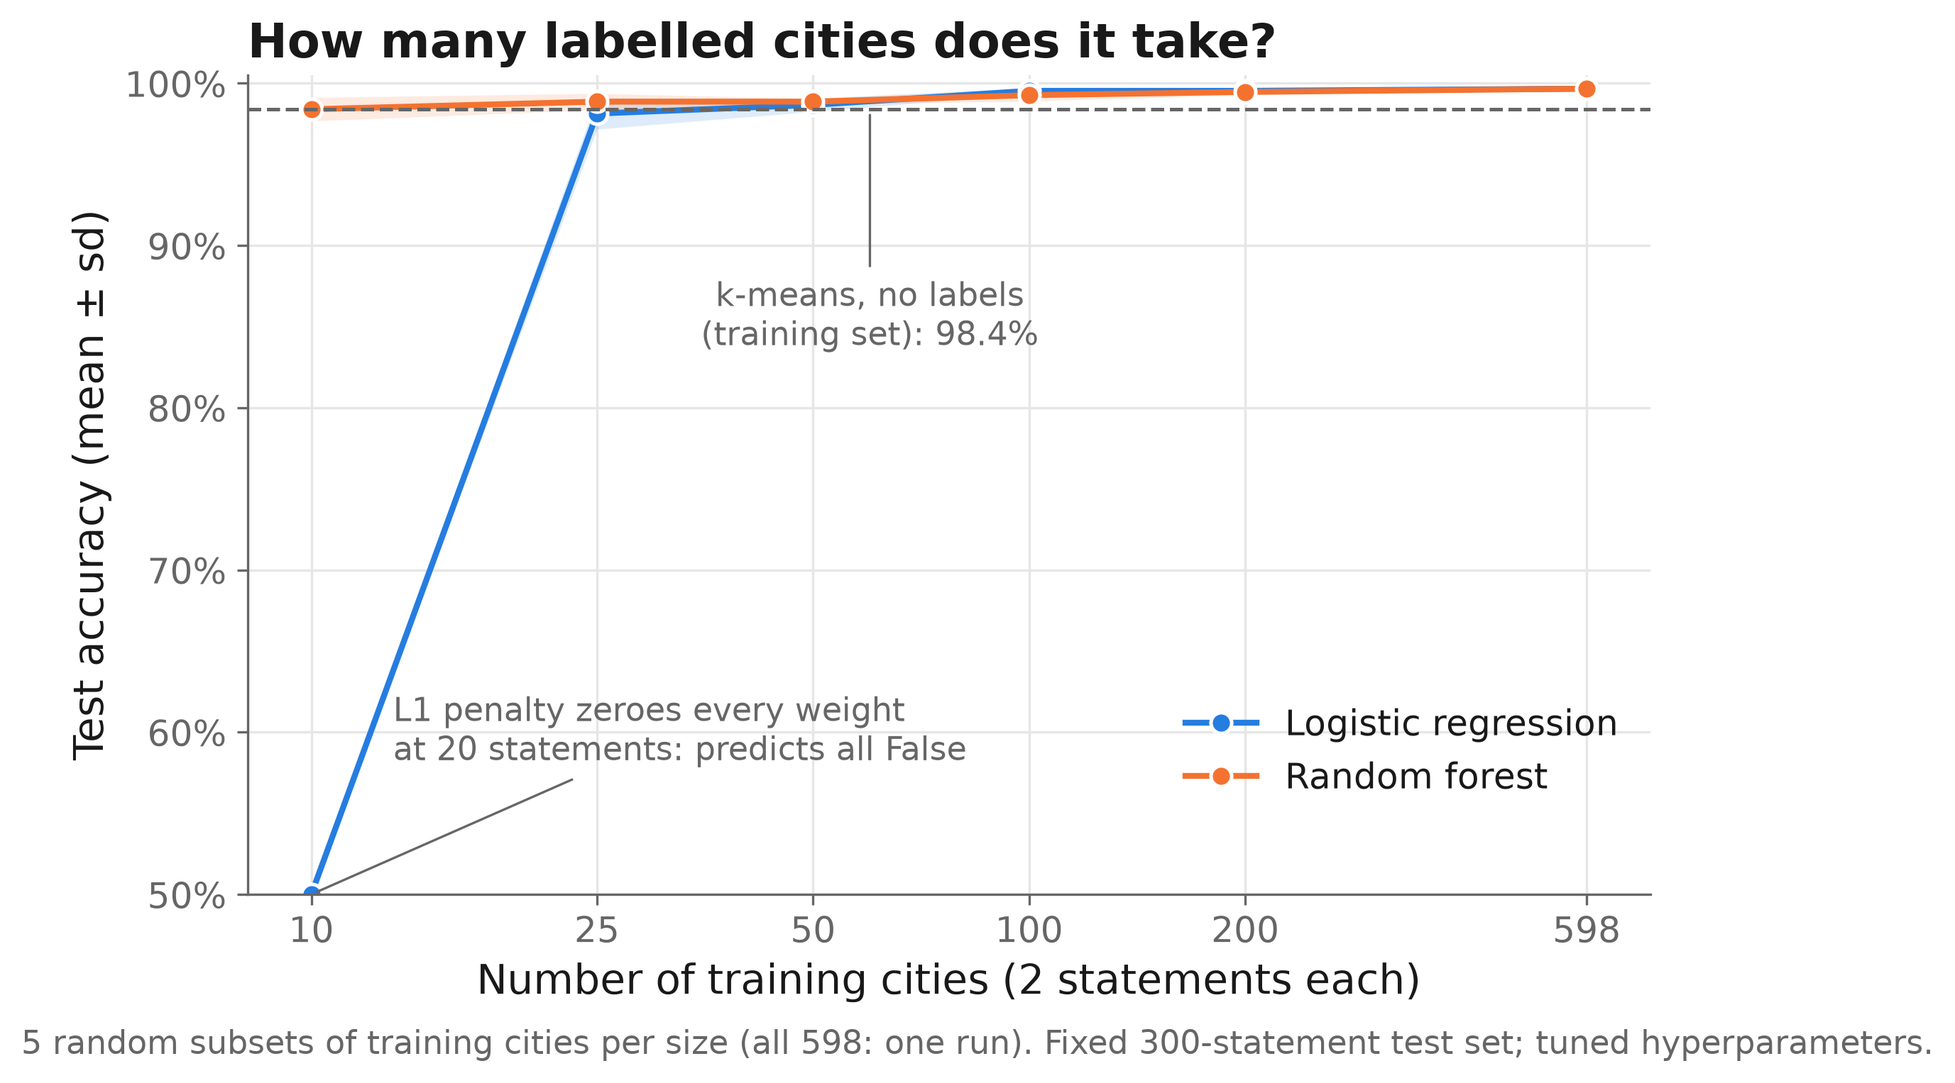
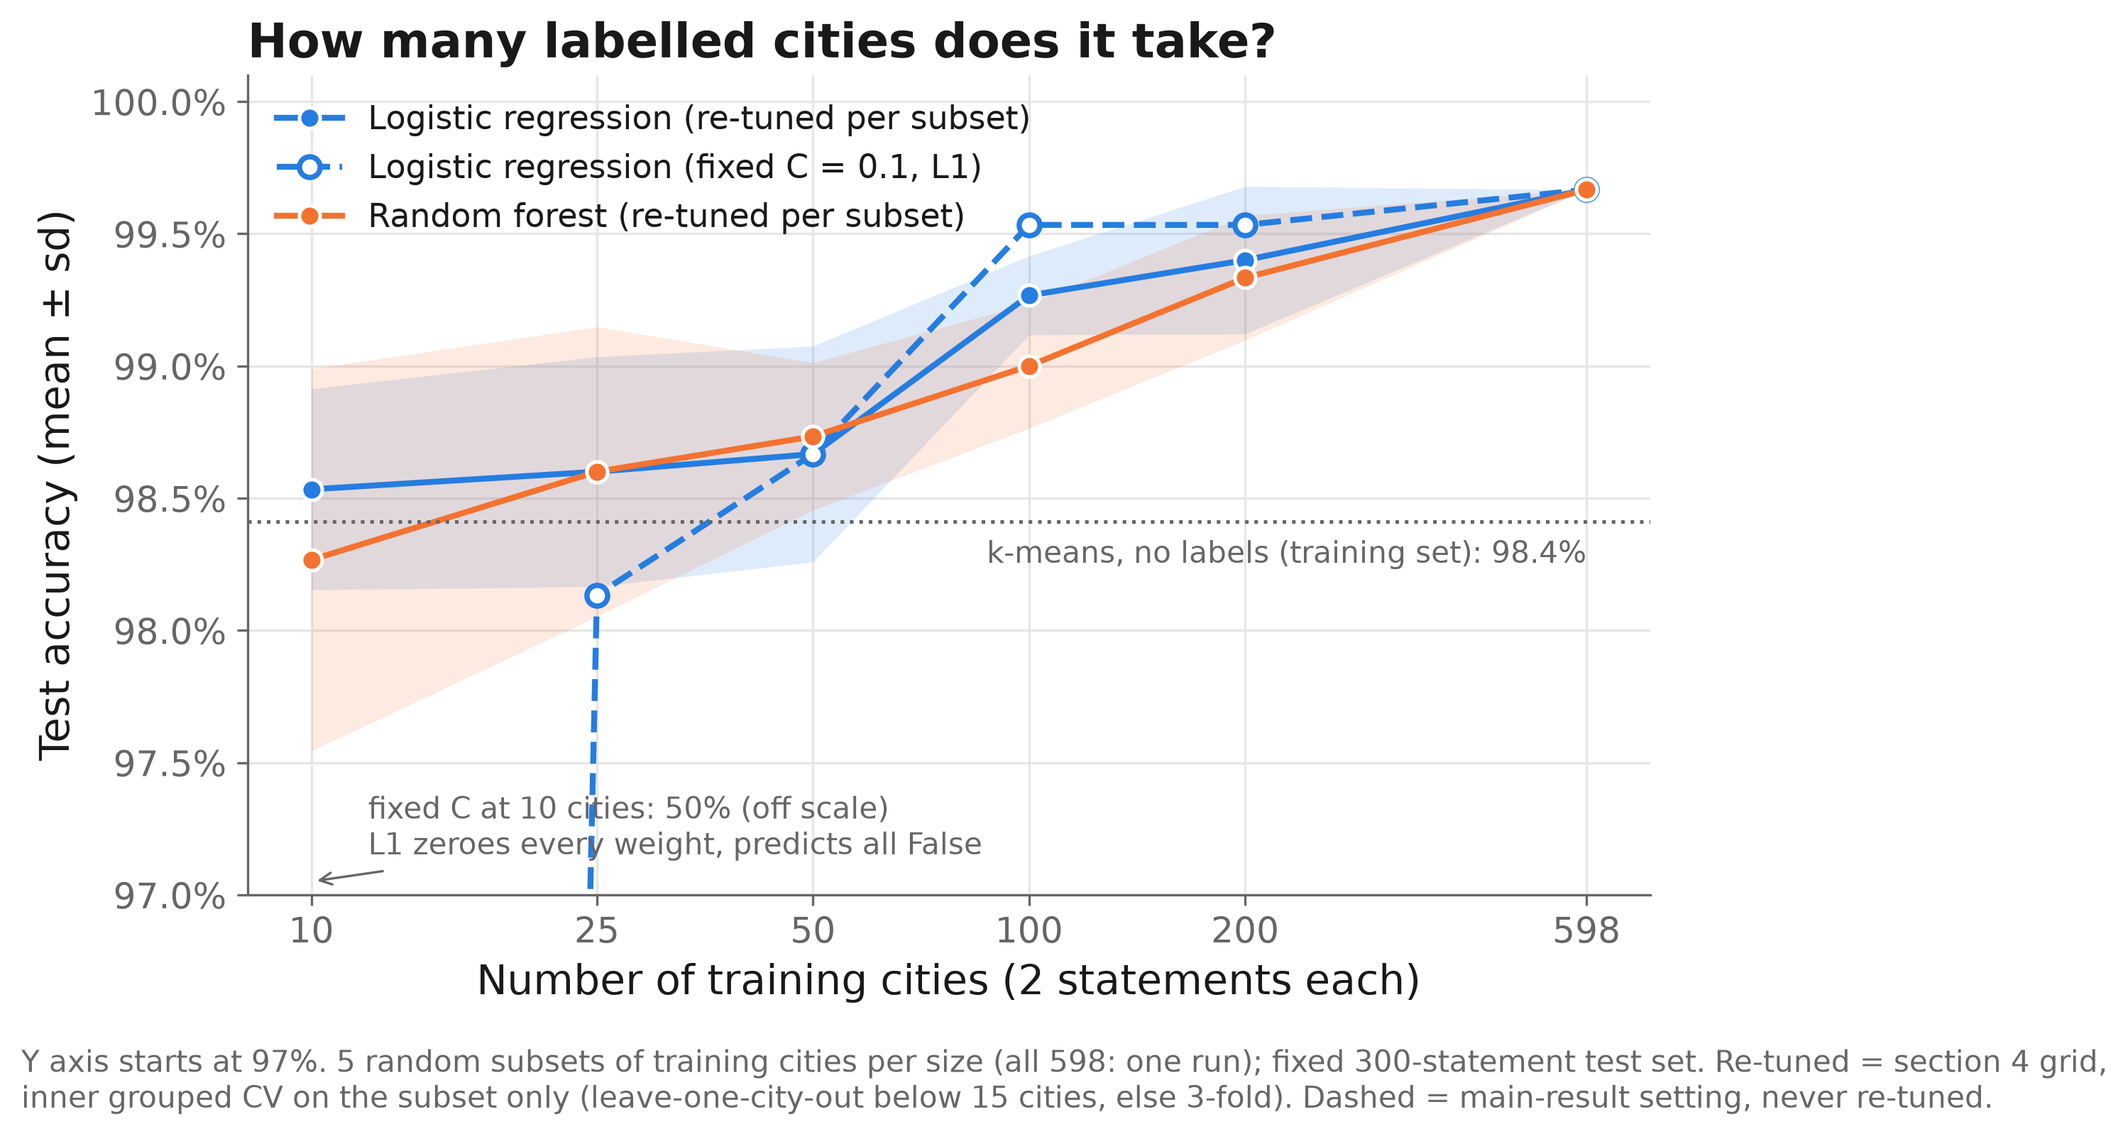
Learning curve: re-tune LR and RF on each training subset
- Inner grouped CV per subset (leave-one-city-out <15 cities, else 3-fold), section 4 grids
- Figure now shows LR re-tuned, LR fixed C=0.1 (dashed), RF re-tuned
- Re-tuned rows appended to results_table.csv; summary.md and CLAUDE.md 8a updated

Claude-Session: https://claude.ai/code/session_01PG348GGmGPyY9PXPgZmFNv

Changed region(s): [[0.0, 0.0, 0.9993, 0.9849], [0.4684, 0.4309, 0.7495, 0.4925], [0.5933, 0.7079, 0.8119, 0.7387]]

diff --git a/src/learning_curve_retuned.py b/src/learning_curve_retuned.py
@@ -1,0 +1,147 @@
+"""Learning curve with hyperparameters re-tuned on each training subset (fair version).
+
+For each training size and repeat (same subsets as extra_analyses.py, same seeds), LR and RF are
+re-tuned over their section 4 grids by grouped inner CV on that subset only:
+3-fold GroupKFold, or leave-one-city-out when the subset has fewer than 15 cities. The chosen
+model is refit on the whole subset and scored on the fixed test set. No API calls.
+Run: .venv/bin/python -W ignore src/learning_curve_retuned.py [--lr-only]
+"""
+import json
+import sys
+import time
+
+import matplotlib.pyplot as plt
+import numpy as np
+import pandas as pd
+from sklearn.metrics import accuracy_score
+from sklearn.model_selection import GridSearchCV, GroupKFold, LeaveOneGroupOut
+
+from common import LR_C, RES, RF_C, SEED, TEXT2, load, savefig, set_style, split_mask
+from tune import LR_GRID, RF_GRID, make_lr, make_rf, pca_label
+
+set_style()
+SIZES = [10, 25, 50, 100, 200]
+REPEATS = 5
+
+
+def inner_cv(groups):
+    n = len(np.unique(groups))
+    if n < 15:
+        return list(LeaveOneGroupOut().split(np.zeros(len(groups)), groups=groups)), "leave-one-city-out"
+    return list(GroupKFold(n_splits=3, shuffle=True, random_state=SEED).split(
+        np.zeros(len(groups)), groups=groups)), "3-fold grouped"
+
+
+def main(lr_only=False, plot_only=False):
+    if plot_only:
+        agg = pd.read_csv(RES / "learning_curve_retuned.csv")
+        n_all = int(agg.n_cities.max())
+        return plot(agg, n_all, lr_only)
+    X, meta = load("cities")
+    tr, te = split_mask(meta)
+    y = meta["label"].to_numpy()
+    Xtr, ytr, ctr = X[tr], y[tr], meta["city"].to_numpy()[tr]
+    Xte, yte = X[te], y[te]
+    train_cities = np.unique(ctr)
+    n_all = len(train_cities)
+    assert not set(train_cities) & set(meta.city[te])
+
+    models = [("LR", make_lr, LR_GRID)] + ([] if lr_only else [("RF", make_rf, RF_GRID)])
+    runs = []
+    for size in SIZES + [n_all]:
+        for r in range(REPEATS):
+            rng = np.random.default_rng(1000 * size + r)  # identical subsets to extra_analyses.py
+            sub = rng.choice(train_cities, size, replace=False) if size < n_all else train_cities
+            idx = np.isin(ctr, sub)
+            folds, scheme = inner_cv(ctr[idx])
+            for c in folds:  # no city on both sides of an inner fold
+                assert not set(ctr[idx][c[0]]) & set(ctr[idx][c[1]])
+            for name, make, grid in models:
+                t0 = time.time()
+                gs = GridSearchCV(make(), grid, scoring="accuracy", cv=folds, n_jobs=-1, refit=True)
+                gs.fit(Xtr[idx], ytr[idx])
+                acc = accuracy_score(yte, gs.predict(Xte))
+                bp = {k: (pca_label(v) if k == "pca" else v) for k, v in gs.best_params_.items()}
+                row = {"model": name, "n_cities": size, "repeat": r, "inner_cv": scheme,
+                       "n_inner_folds": len(folds), "inner_cv_acc": gs.best_score_,
+                       "test_accuracy": acc, "best_params": json.dumps(bp, default=float),
+                       "runtime_sec": round(time.time() - t0, 1)}
+                if name == "LR":
+                    row["nonzero_weights"] = int((gs.best_estimator_["clf"].coef_ != 0).sum())
+                runs.append(row)
+                print(f"{name} {size:>3} cities rep {r}: test {acc:.4f}  {bp}  ({row['runtime_sec']}s)", flush=True)
+            if size == n_all:
+                break  # all cities: one run (subset is the whole training split)
+    runs = pd.DataFrame(runs)
+    runs.to_csv(RES / "learning_curve_retuned_runs.csv", index=False)
+    agg = runs.groupby(["model", "n_cities"])["test_accuracy"].agg(["mean", "std", "count"]).reset_index()
+    agg["std"] = agg["std"].fillna(0.0)
+    agg.to_csv(RES / "learning_curve_retuned.csv", index=False)
+
+    rows = []
+    for _, a in agg.iterrows():
+        rows.append({"section": "Learning curve (re-tuned)", "dataset": "cities test", "method": f"{a.model} (re-tuned)",
+                     "metric": f"test_accuracy_{a.n_cities}_cities", "value": round(a["mean"], 4),
+                     "ci_low": np.nan, "ci_high": np.nan,
+                     "notes": f"mean over {a['count']} subsets; sd = {a['std']:.4f}; grid re-tuned by inner grouped CV "
+                              f"({'leave-one-city-out' if a.n_cities < 15 else '3-fold'}) on each subset"})
+    lr = runs[runs.model == "LR"]
+    for size in (10, 25):
+        d = lr[lr.n_cities == size]
+        rows.append({"section": "Learning curve (re-tuned)", "dataset": "cities train subsets", "method": "LR (re-tuned)",
+                     "metric": f"nonzero_weights_{size}_cities", "value": round(d.nonzero_weights.mean(), 1),
+                     "ci_low": np.nan, "ci_high": np.nan,
+                     "notes": f"mean over 5 subsets; per subset: {d.nonzero_weights.tolist()}; "
+                              f"chosen: {d.best_params.tolist()}"})
+    for name in agg.model.unique():
+        rows.append({"section": "Learning curve (re-tuned)", "dataset": "cities", "method": f"{name} (re-tuned)",
+                     "metric": "total_runtime_sec", "value": round(runs[runs.model == name].runtime_sec.sum(), 1),
+                     "ci_low": np.nan, "ci_high": np.nan, "notes": ""})
+    pd.DataFrame(rows).to_csv(RES / "lc_retuned_results.csv", index=False)
+    plot(agg, n_all, lr_only)
+    print(agg.to_string())
+
+
+def plot(agg, n_all, lr_only):
+
+    # Figure: LR re-tuned, LR fixed C = 0.1 (dashed), RF (re-tuned if run, else fixed)
+    fixed = pd.read_csv(RES / "learning_curve.csv")
+    km = json.loads((RES / "tuning.json").read_text())["kmeans"]["PCA2"]["cluster_accuracy"]
+    fig, ax = plt.subplots(figsize=(8.5, 5))
+    rf_src = agg if not lr_only else fixed
+    lines = [(agg[agg.model == "LR"], LR_C, "-", "Logistic regression (re-tuned per subset)"),
+             (fixed[fixed.model == "LR"], LR_C, "--", "Logistic regression (fixed C = 0.1, L1)"),
+             (rf_src[rf_src.model == "RF"], RF_C, "-",
+              "Random forest (re-tuned per subset)" if not lr_only else "Random forest (fixed settings)")]
+    for d, c, ls, lab in lines:
+        if ls == "-":
+            ax.fill_between(d.n_cities, d["mean"] - d["std"], np.minimum(d["mean"] + d["std"], 1.0),
+                            color=c, alpha=0.15, lw=0)
+        ax.plot(d.n_cities, d["mean"], ls, marker="o", color=c, lw=2, ms=7, label=lab,
+                mec="white" if ls == "-" else c, mew=1.2 if ls == "-" else 1.8, mfc=c if ls == "-" else "white")
+    ax.axhline(km, color=TEXT2, lw=1.2, ls=":")
+    ax.text(n_all, km - 0.0007, f"k-means, no labels (training set): {km:.1%}",
+            color=TEXT2, fontsize=10, ha="right", va="top")
+    f10 = fixed[(fixed.model == "LR") & (fixed.n_cities == 10)]["mean"].iloc[0]
+    if f10 < 0.97:
+        ax.annotate(f"fixed C at 10 cities: {f10:.0%} (off scale)\nL1 zeroes every weight, predicts all False",
+                    (10, 0.9705), xytext=(12, 0.9725), color=TEXT2, fontsize=10, ha="left", va="center",
+                    arrowprops=dict(arrowstyle="->", color=TEXT2, lw=0.8))
+    ax.set_xscale("log")
+    ax.set_xticks(SIZES + [n_all], [str(s) for s in SIZES + [n_all]])
+    ax.minorticks_off()
+    ax.set_ylim(0.97, 1.001)
+    ax.set_xlabel("Number of training cities (2 statements each)")
+    ax.set_ylabel("Test accuracy (mean ± sd)")
+    ax.yaxis.set_major_formatter(plt.FuncFormatter(lambda v, _: f"{v:.0%}"))
+    ax.set_title("How many labelled cities does it take?")
+    ax.yaxis.set_major_formatter(plt.FuncFormatter(lambda v, _: f"{v:.1%}"))
+    ax.legend(frameon=False, loc="upper left", fontsize=11)
+    fig.text(0.0, -0.09, "Y axis starts at 97%. 5 random subsets of training cities per size (all 598: one run); fixed 300-statement test set. "
+             "Re-tuned = section 4 grid,\ninner grouped CV on the subset only (leave-one-city-out below 15 cities, "
+             "else 3-fold). Dashed = main-result setting, never re-tuned.", color=TEXT2, fontsize=10)
+    savefig(fig, "results_learning_curve.png")
+
+
+if __name__ == "__main__":
+    main(lr_only="--lr-only" in sys.argv, plot_only="--plot-only" in sys.argv)

diff --git a/src/extra_analyses.py b/src/extra_analyses.py
@@ -64,32 +64,8 @@ def main():
     km = tuning["kmeans"]
     km_acc = km["PCA2"]["cluster_accuracy"]
 
-    fig, ax = plt.subplots(figsize=(8.5, 5))
-    for name, c, lab in [("LR", LR_C, "Logistic regression"), ("RF", RF_C, "Random forest")]:
-        d = agg[agg.model == name]
-        ax.fill_between(d.n_cities, d["mean"] - d["std"], np.minimum(d["mean"] + d["std"], 1.0),
-                        color=c, alpha=0.15, lw=0)
-        ax.plot(d.n_cities, d["mean"], "-o", color=c, lw=2, ms=7, label=lab, mec="white", mew=1.2)
-    ax.axhline(km_acc, color=TEXT2, lw=1.2, ls="--")
-    ax.annotate(f"k-means, no labels\n(training set): {km_acc:.1%}", (60, km_acc), xytext=(60, 0.88),
-                color=TEXT2, fontsize=11, ha="center", va="top",
-                arrowprops=dict(arrowstyle="-", color=TEXT2, lw=0.8))
-    ax.annotate("L1 penalty zeroes every weight\nat 20 statements: predicts all False", (10, 0.5),
-                xytext=(13, 0.6), color=TEXT2, fontsize=11, ha="left", va="center",
-                arrowprops=dict(arrowstyle="-", color=TEXT2, lw=0.8))
-    ax.set_xscale("log")
-    ax.set_xticks(SIZES + [n_all], [str(s) for s in SIZES + [n_all]])
-    ax.minorticks_off()
-    ax.set_xlabel("Number of training cities (2 statements each)")
-    ax.set_ylabel("Test accuracy (mean ± sd)")
-    ax.yaxis.set_major_formatter(plt.FuncFormatter(lambda v, _: f"{v:.0%}"))
-    lo = max(0.5, (agg["mean"] - agg["std"]).min() - 0.02)
-    ax.set_ylim(lo, 1.005)
-    ax.set_title("How many labelled cities does it take?")
-    ax.legend(frameon=False, loc="lower right", bbox_to_anchor=(1.0, 0.08))
-    fig.text(0.0, -0.04, "5 random subsets of training cities per size (all 598: one run). "
-             "Fixed 300-statement test set; tuned hyperparameters.", color=TEXT2, fontsize=11)
-    savefig(fig, "results_learning_curve.png")
+    # Figure: superseded by src/learning_curve_retuned.py, which plots these fixed-C numbers
+    # alongside the re-tuned curves in figures/results_learning_curve.png.
 
     # ---------------- 2. Hard negatives
     reg = pd.read_csv(ROOT / "data" / "country_region.csv").set_index("country")["region"]

diff --git a/src/make_table.py b/src/make_table.py
@@ -6,7 +6,8 @@ import pandas as pd
 from common import RES
 
 parts = [pd.read_csv(RES / "eda_results.csv"), pd.read_csv(RES / "eval_results.csv"),
-         pd.read_csv(RES / "extra_results.csv")]
+         pd.read_csv(RES / "extra_results.csv"),
+         pd.read_csv(RES / "lc_retuned_results.csv")]
 b = json.loads((RES / "baseline.json").read_text())
 emb = json.loads((RES / "embedding_check.json").read_text())
 extra = []
@@ -22,7 +23,7 @@ for ds in ("cities", "neg_cities"):
     extra.append({"section": "Cost", "dataset": ds, "method": "Embedding (Qwen3-Embedding-8B)",
                   "metric": "prompt_tokens", "value": emb[ds]["prompt_tokens"], "notes": "$0.01 per 1M tokens"})
 df = pd.concat(parts + [pd.DataFrame(extra)], ignore_index=True)
-order = ["EDA", "Tuning", "CV", "Test", "Paired", "Baseline", "Unsupervised", "Transfer", "Learning curve", "Hard negatives", "Errors", "Cost"]
+order = ["EDA", "Tuning", "CV", "Test", "Paired", "Baseline", "Unsupervised", "Transfer", "Learning curve", "Learning curve (re-tuned)", "Hard negatives", "Errors", "Cost"]
 df["_o"] = df["section"].map({s: i for i, s in enumerate(order)})
 df = df.sort_values("_o", kind="stable").drop(columns="_o")
 df.to_csv(RES / "results_table.csv", index=False)

diff --git a/results/summary.md b/results/summary.md
@@ -55,17 +55,21 @@ Bars: accuracy for train → test combinations. (a) = city-disjoint (train citie
 - (a) and (b) are similar, so unseen cities are not the issue. The drop comes from negation.
 
 ### `figures/results_learning_curve.png`: How many labelled cities does it take?
-LR and RF (tuned settings) trained on random subsets of 10, 25, 50, 100, 200 and all 598 training cities. Each subset size is repeated 5 times with fixed seeds, and every run is scored on the same 300-statement test set. Mean test accuracy:
+LR and RF trained on random subsets of 10, 25, 50, 100, 200 and all 598 training cities. Each size is repeated 5 times with fixed seeds, and every run is scored on the same 300-statement test set. **Fair version:** for every subset, both methods are re-tuned over their full section 4 grids, using grouped CV inside that subset only. That's leave-one-city-out for 10 cities and 3-fold grouped CV otherwise. The test set plays no part in tuning. The dashed line keeps the main-result LR setting (C = 0.1, L1) fixed, for comparison. Mean test accuracy ± sd:
 
 | Training cities | 10 | 25 | 50 | 100 | 200 | 598 (all) |
 |---|---|---|---|---|---|---|
-| Logistic regression | 50.0% ± 0.0 | 98.1% ± 1.0 | 98.7% ± 0.4 | 99.5% ± 0.2 | 99.5% ± 0.2 | 99.7% |
-| Random forest | 98.4% ± 0.7 | 98.9% ± 0.5 | 98.9% ± 0.2 | 99.3% ± 0.4 | 99.5% ± 0.2 | 99.7% |
+| LR, re-tuned per subset | 98.5% ± 0.4 | 98.6% ± 0.4 | 98.7% ± 0.4 | 99.3% ± 0.1 | 99.4% ± 0.3 | 99.7% |
+| RF, re-tuned per subset | 98.3% ± 0.7 | 98.6% ± 0.5 | 98.7% ± 0.3 | 99.0% ± 0.2 | 99.3% ± 0.2 | 99.7% |
+| LR, fixed C = 0.1 (dashed) | 50.0% ± 0.0 | 98.1% ± 1.0 | 98.7% ± 0.4 | 99.5% ± 0.2 | 99.5% ± 0.2 | 99.7% |
 
-- **About 25 labelled cities (50 statements) are enough for 98%.** Beyond that, more data adds less than 2 points.
-- **The LR 50% at 10 cities is a regularization artifact, not a failure to learn.** C = 0.1 was tuned for about 1,200 training statements. With only 20, the same L1 penalty outweighs the data and sets every weight to zero, so the model predicts "False" for everything. At 25 cities it keeps 5 nonzero weights and reaches 98%. This makes a good Q&A answer for "what does C control?".
-- **The dashed line is k-means on the training set with no labels (98.4%).** A few dozen labels are needed to beat it. It's drawn only as a reference, because it's scored on training data rather than the test set.
-- **Section 6 outcome:** consistent with "LR high, RF not better". The truth direction is so strong that very little labelled data is needed to find it.
+- **Ten labelled cities (20 statements) are already enough for about 98.5%**, for both methods once they are tuned for that amount of data. More data adds only about 1 point.
+- **The earlier 50% at 10 cities was a tuning artifact.** C = 0.1 was chosen for about 1,200 statements. With only 20, that L1 penalty sets every weight to zero, so the model predicts "False" for everything. Re-tuning on the small subset fixes it. This makes a good Q&A answer for "what does C control?".
+- **LR and RF stay within each other's spread at every size.** The nonlinear method never pulls ahead.
+- **Nonzero weights in the re-tuned LR:** 10 cities: 4096, 39, 4096, 4096, 4096 (four subsets chose L2 with C = 0.0001; one chose L1 with C = 10). 25 cities: 13, 4096, 4096, 4096, 4096 (one chose L1 with C = 0.32; four chose L2 with C = 0.0001).
+- **Caveat on which settings were chosen:** at 100 cities or fewer, the best inner-CV accuracy is 100%, so many settings tie. The grid search then takes the first tied setting in grid order, usually the smallest C with L2. The chosen settings are therefore partly arbitrary at small sizes, even though their test accuracy is consistently high.
+- **The dotted line is k-means on the training set with no labels (98.4%).** Ten labelled cities roughly match it. It's a reference only, because it's scored on training data rather than the test set.
+- RF was re-tuned too, as runtime allowed: 493 s total, against 30 s for LR. Section 6 outcome: consistent with "LR high, RF not better". The truth direction is strong enough to find from a handful of labelled examples.
 
 ### `figures/results_hard_negatives.png`: Are false statements harder when the wrong country is nearby?
 Each false test statement is labelled **same-region** if the wrong country is in the same UN region as the true one (e.g. a Chinese city placed in India), and **cross-region** otherwise (e.g. a Russian city placed in South Africa). Accuracy with 95% city-bootstrap CIs:

diff --git a/CLAUDE.md b/CLAUDE.md
@@ -107,7 +107,7 @@ Baselines: majority class (~50%). Optional: a Token Factory chat model answering
    - (a) city-disjoint: train on the training-split cities of cities, test on the test-split cities of neg_cities, and the reverse (train neg_cities train split, test cities test split).
    - (b) all-cities: train on all of cities, test on all of neg_cities, and the reverse. Same cities on both sides, so this tests the negation shift only.
 8. **Unsupervised:** k-means ARI and cluster accuracy on the training set; PCA explained-variance plot.
-8a. **Learning curve:** LR and RF with the tuned hyperparameters, trained on random subsets of 10, 25, 50, 100, 200 and all training cities (grouped by city, 5 repeats per size, fixed seeds), scored on the fixed test set. Report mean +/- sd; k-means training-set cluster accuracy as a reference line. Hyperparameters are not re-tuned and nothing is selected from these runs.
+8a. **Learning curve:** LR and RF trained on random subsets of 10, 25, 50, 100, 200 and all training cities (grouped by city, 5 repeats per size, fixed seeds; same subsets for every method), scored on the fixed test set. For each subset, both methods are re-tuned over their section 4 grids by grouped inner CV on that subset only (leave-one-city-out below 15 cities, else 3-fold grouped). The main-result LR setting (C = 0.1, L1) is also run unchanged on the same subsets and plotted dashed, for comparison. Report mean +/- sd, and nonzero weight counts for re-tuned LR at 10 and 25 cities; k-means training-set cluster accuracy is a reference line. Nothing from these runs feeds back into the main results.
 8b. **Hard negatives:** split test false statements into same-region (wrong country in the same UN region as the correct country, per data/country_region.csv) and cross-region. Report accuracy for LR, RF and the chat baseline on same-region false, cross-region false and true statements, with city-level bootstrap CIs and counts. If the same-region test group has fewer than 20 statements, also report the breakdown on CV out-of-fold predictions over the training set.
 9. Fix random seeds; log every number to one results table.
 
@@ -127,7 +127,7 @@ Baselines: majority class (~50%). Optional: a Token Factory chat model answering
 
 The two rows above were added after the main results were known. They are follow-up checks, not pre-registered predictions; say so on the slides.
 
-**Results (filled in after running; see results/summary.md):** LR 99.7% and RF 99.7% test accuracy, indistinguishable (row 1). k-means finds truth without labels (opposite of row 5). Negation transfer degrades to 73-94% accuracy but AUC >= 0.99 (threshold shift, not row 4). Learning curve: about 25 training cities reach 98%. Hard negatives: same-region false statements 100% correct for all methods, so no sign of reliance on coarse geography.
+**Results (filled in after running; see results/summary.md):** LR 99.7% and RF 99.7% test accuracy, indistinguishable (row 1). k-means finds truth without labels (opposite of row 5). Negation transfer degrades to 73-94% accuracy but AUC >= 0.99 (threshold shift, not row 4). Learning curve (re-tuned per subset): 10 training cities already reach about 98.5% for both LR and RF; the fixed-C LR collapse at 10 cities was a tuning artifact. Hard negatives: same-region false statements 100% correct for all methods, so no sign of reliance on coarse geography.
 
 **Error analysis:** list misclassified test statements; check whether errors cluster by country, region, or city fame.
 
